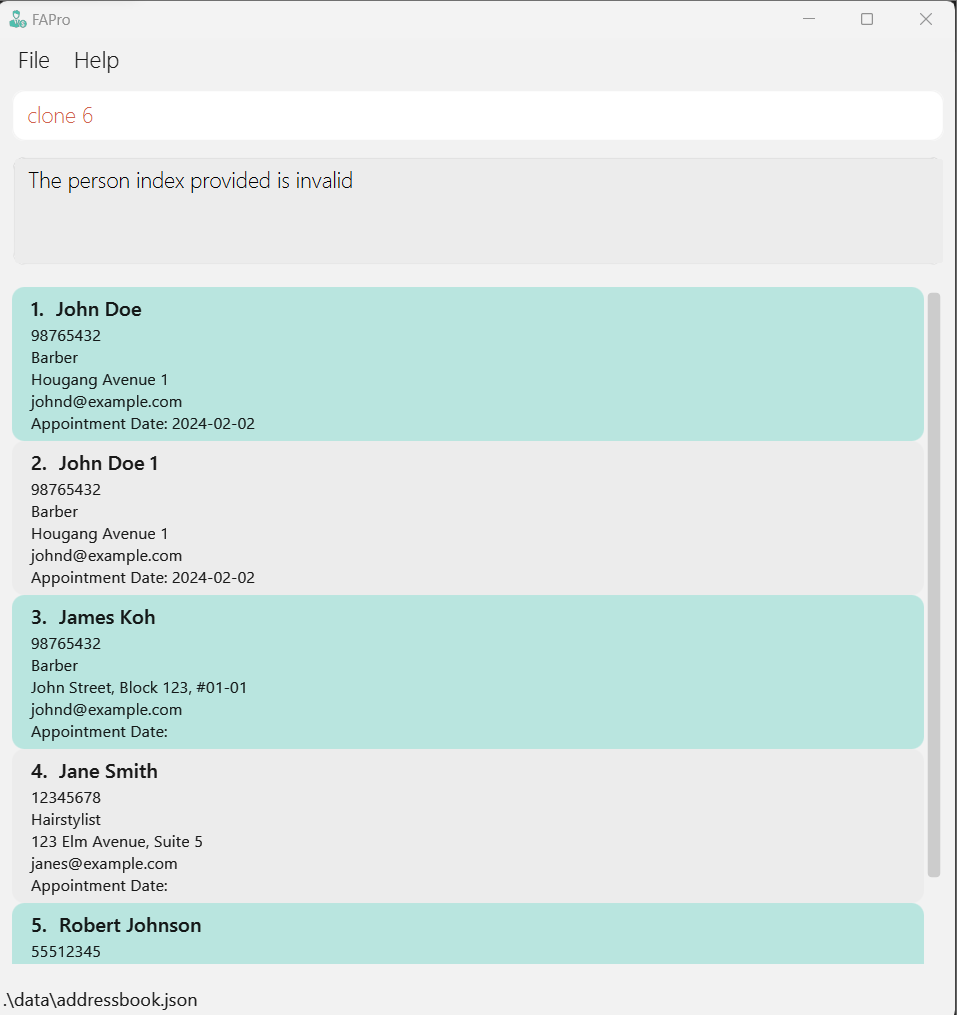
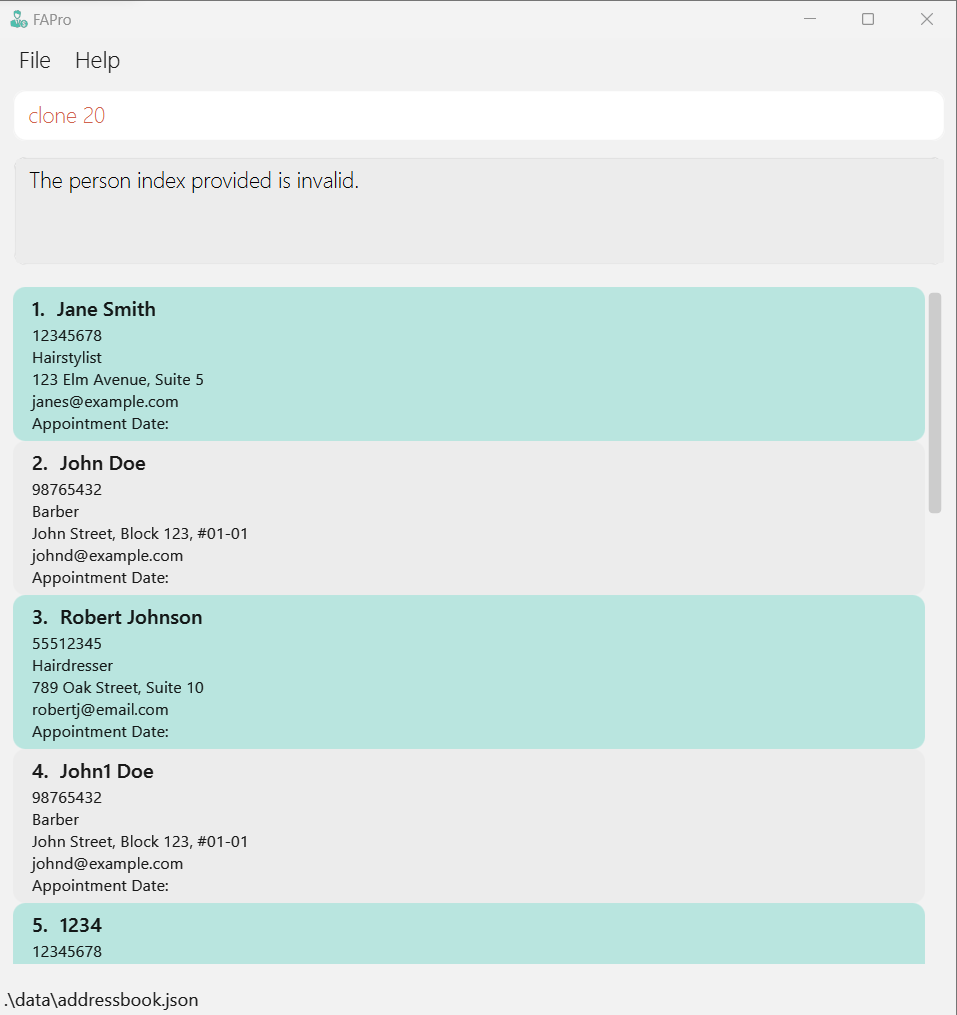
Update UI and formatting

diff --git a/src/main/java/seedu/address/logic/commands/CloneCommand.java b/src/main/java/seedu/address/logic/commands/CloneCommand.java
@@ -20,13 +20,13 @@ public class CloneCommand extends Command {
 
     public static final String MESSAGE_USAGE = COMMAND_WORD
             + ": Clones the person identified by the index number used in the displayed person list.\n"
-            + "Parameters: INDEX (must be a positive integer)\n"
+            + "Parameters: INDEX (must be a positive integer).\n"
             + "Example: " + COMMAND_WORD + " 1";
 
     public static final String MESSAGE_CLONE_PERSON_SUCCESS = "Cloned Person: %1$s";
 
-    public static final String MESSAGE_CLONE_PERSON_DUPLICATE_FAILURE = "A clone of this person already exists. To "
-        + "clone again, please edit the previous clone first or alternatively, clone the previous clone.";
+    public static final String MESSAGE_CLONE_PERSON_DUPLICATE_FAILURE = "A clone of this person already exists.\n"
+        + "To clone again, please edit the previous clone first or alternatively, clone the previous clone.";
 
     private final Index targetIndex;
 

diff --git a/src/main/java/seedu/address/logic/Messages.java b/src/main/java/seedu/address/logic/Messages.java
@@ -12,9 +12,9 @@ import seedu.address.model.person.Person;
  */
 public class Messages {
 
-    public static final String MESSAGE_UNKNOWN_COMMAND = "Unknown command";
+    public static final String MESSAGE_UNKNOWN_COMMAND = "Unknown command.";
     public static final String MESSAGE_INVALID_COMMAND_FORMAT = "Invalid command format! \n%1$s";
-    public static final String MESSAGE_INVALID_PERSON_DISPLAYED_INDEX = "The person index provided is invalid";
+    public static final String MESSAGE_INVALID_PERSON_DISPLAYED_INDEX = "The person index provided is invalid.";
     public static final String MESSAGE_PERSONS_LISTED_OVERVIEW = "%1$d persons listed!";
     public static final String MESSAGE_DUPLICATE_FIELDS =
                 "Multiple values specified for the following single-valued field(s): ";

diff --git a/docs/UserGuide.md b/docs/UserGuide.md
@@ -190,21 +190,32 @@ Acceptable parameters for INDEX:
 ![edit format](images/cloneformat.png)
 
 Precise expected outputs on success:
-* Message shown to the user: “Cloned Person: X”, where X are the details of the person who was cloned.
-* For example, if “Name: John Doe; Phone: 98765432; Email: johnd@example.com; Occupation: Barber; Address: Hougang Avenue 1; AppointmentDate: 2024-02-02; Tags: “ was cloned, the the output is “Cloned Person: John Doe; Phone: 98765432; Email: johnd@example.com; Occupation: Barber; Address: Hougang Avenue 1; AppointmentDate: 2024-02-02; Tags: ”
+* Message shown to the user: "Cloned Person: X", where X are the details of the person who was cloned.
+* For example, if
+* "Name: John Doe; Phone: 98765432; Email: johnd@example.com; Occupation: Barber; Address: Hougang Avenue 1; AppointmentDate: 2024-02-02; Tags:" was cloned, then the output is
+* "Cloned Person: John Doe; Phone: 98765432; Email: johnd@example.com; Occupation: Barber; Address: Hougang Avenue 1; AppointmentDate: 2024-02-02; Tags: "
 
 ![edit format](images/cloneresult.png)
 
 Precise expected outputs on failure: 
-* When no index, zero or a negative index is entered next to the clone command, the error message “Invalid command format! clone: Clones the person identified by the index number used in the displayed person list. Parameters: INDEX (must be a positive integer)” is returned to the user
+* When no index, zero or a negative index is entered next to the clone command, the error message
+* "Invalid command format!
+* clone: Clones the person identified by the index number used in the displayed person list.
+* Parameters: INDEX (must be a positive integer)."
+* is returned to the user.
 
 ![edit format](images/cloneinvalidindex.png)
 
-* When the index entered is greater than the current number of contacts in the address book, the error message “The person index provided is invalid” is returned.
+* When the index entered is greater than the current number of contacts in the address book, the error message
+* “The person index provided is invalid.”
+* is returned to the user.
 
 ![edit format](images/clonelargeindex.png)
 
-* When the person at index entered has already been cloned in FAPro, the error message “A clone of this person already exists. To clone again, please edit the previous clone first or alternatively, clone the previous clone.” is returned.
+* When the person at index entered has already been cloned in FAPro, the error message
+* “A clone of this person already exists.
+* To clone again, please edit the previous clone first or alternatively, clone the previous clone.”
+* is returned to the user.
 
 ![edit format](images/clonebeforeerror.png)
 
